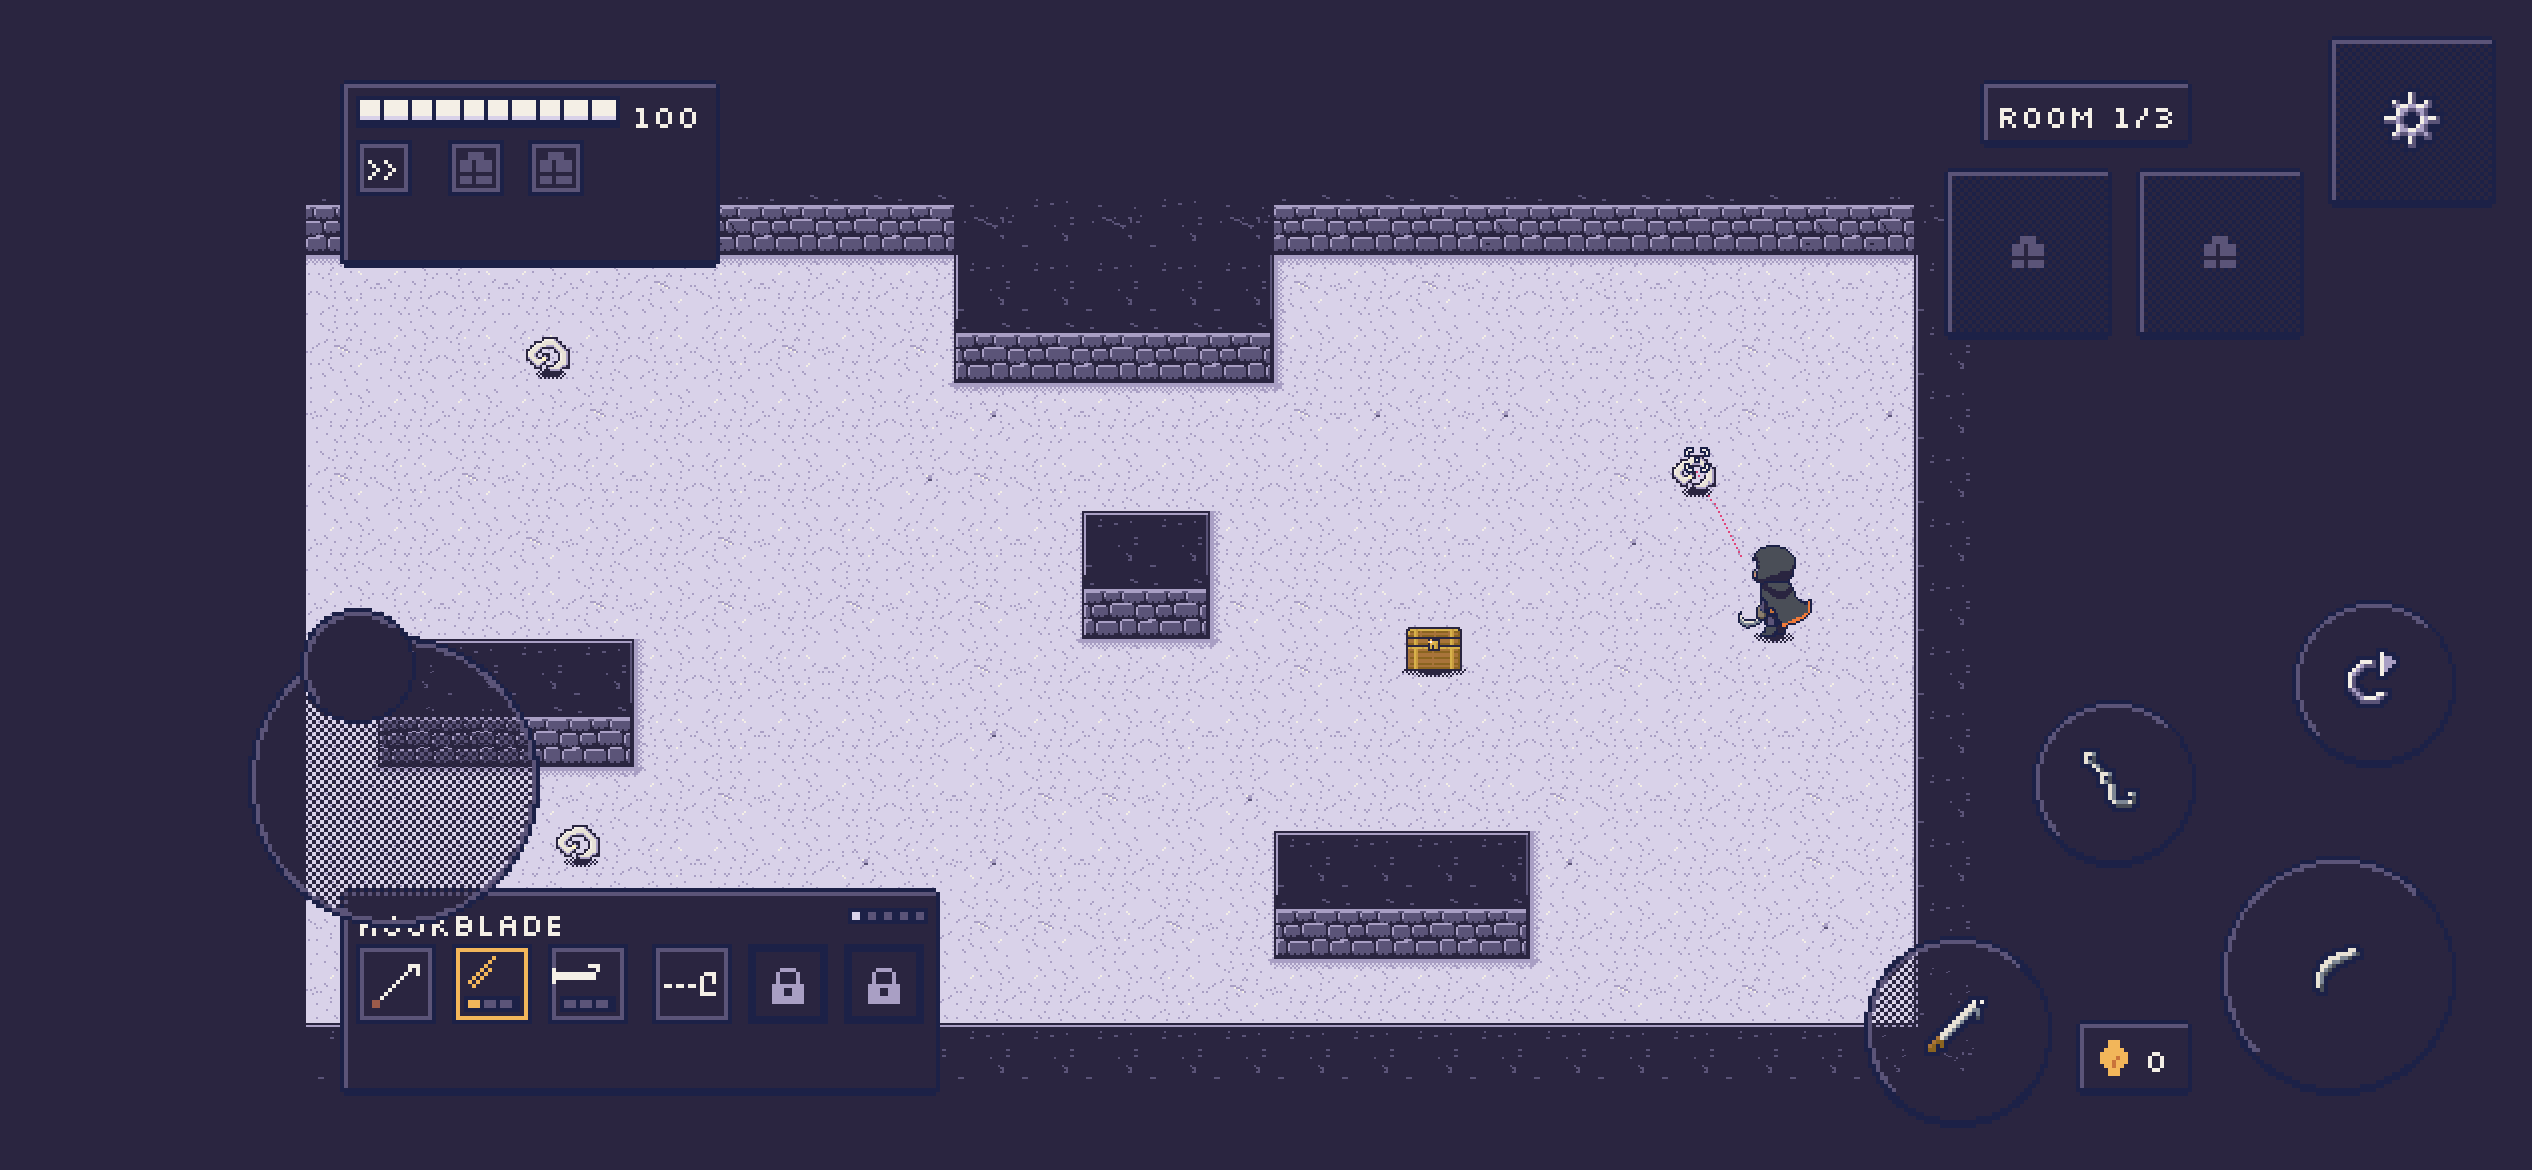
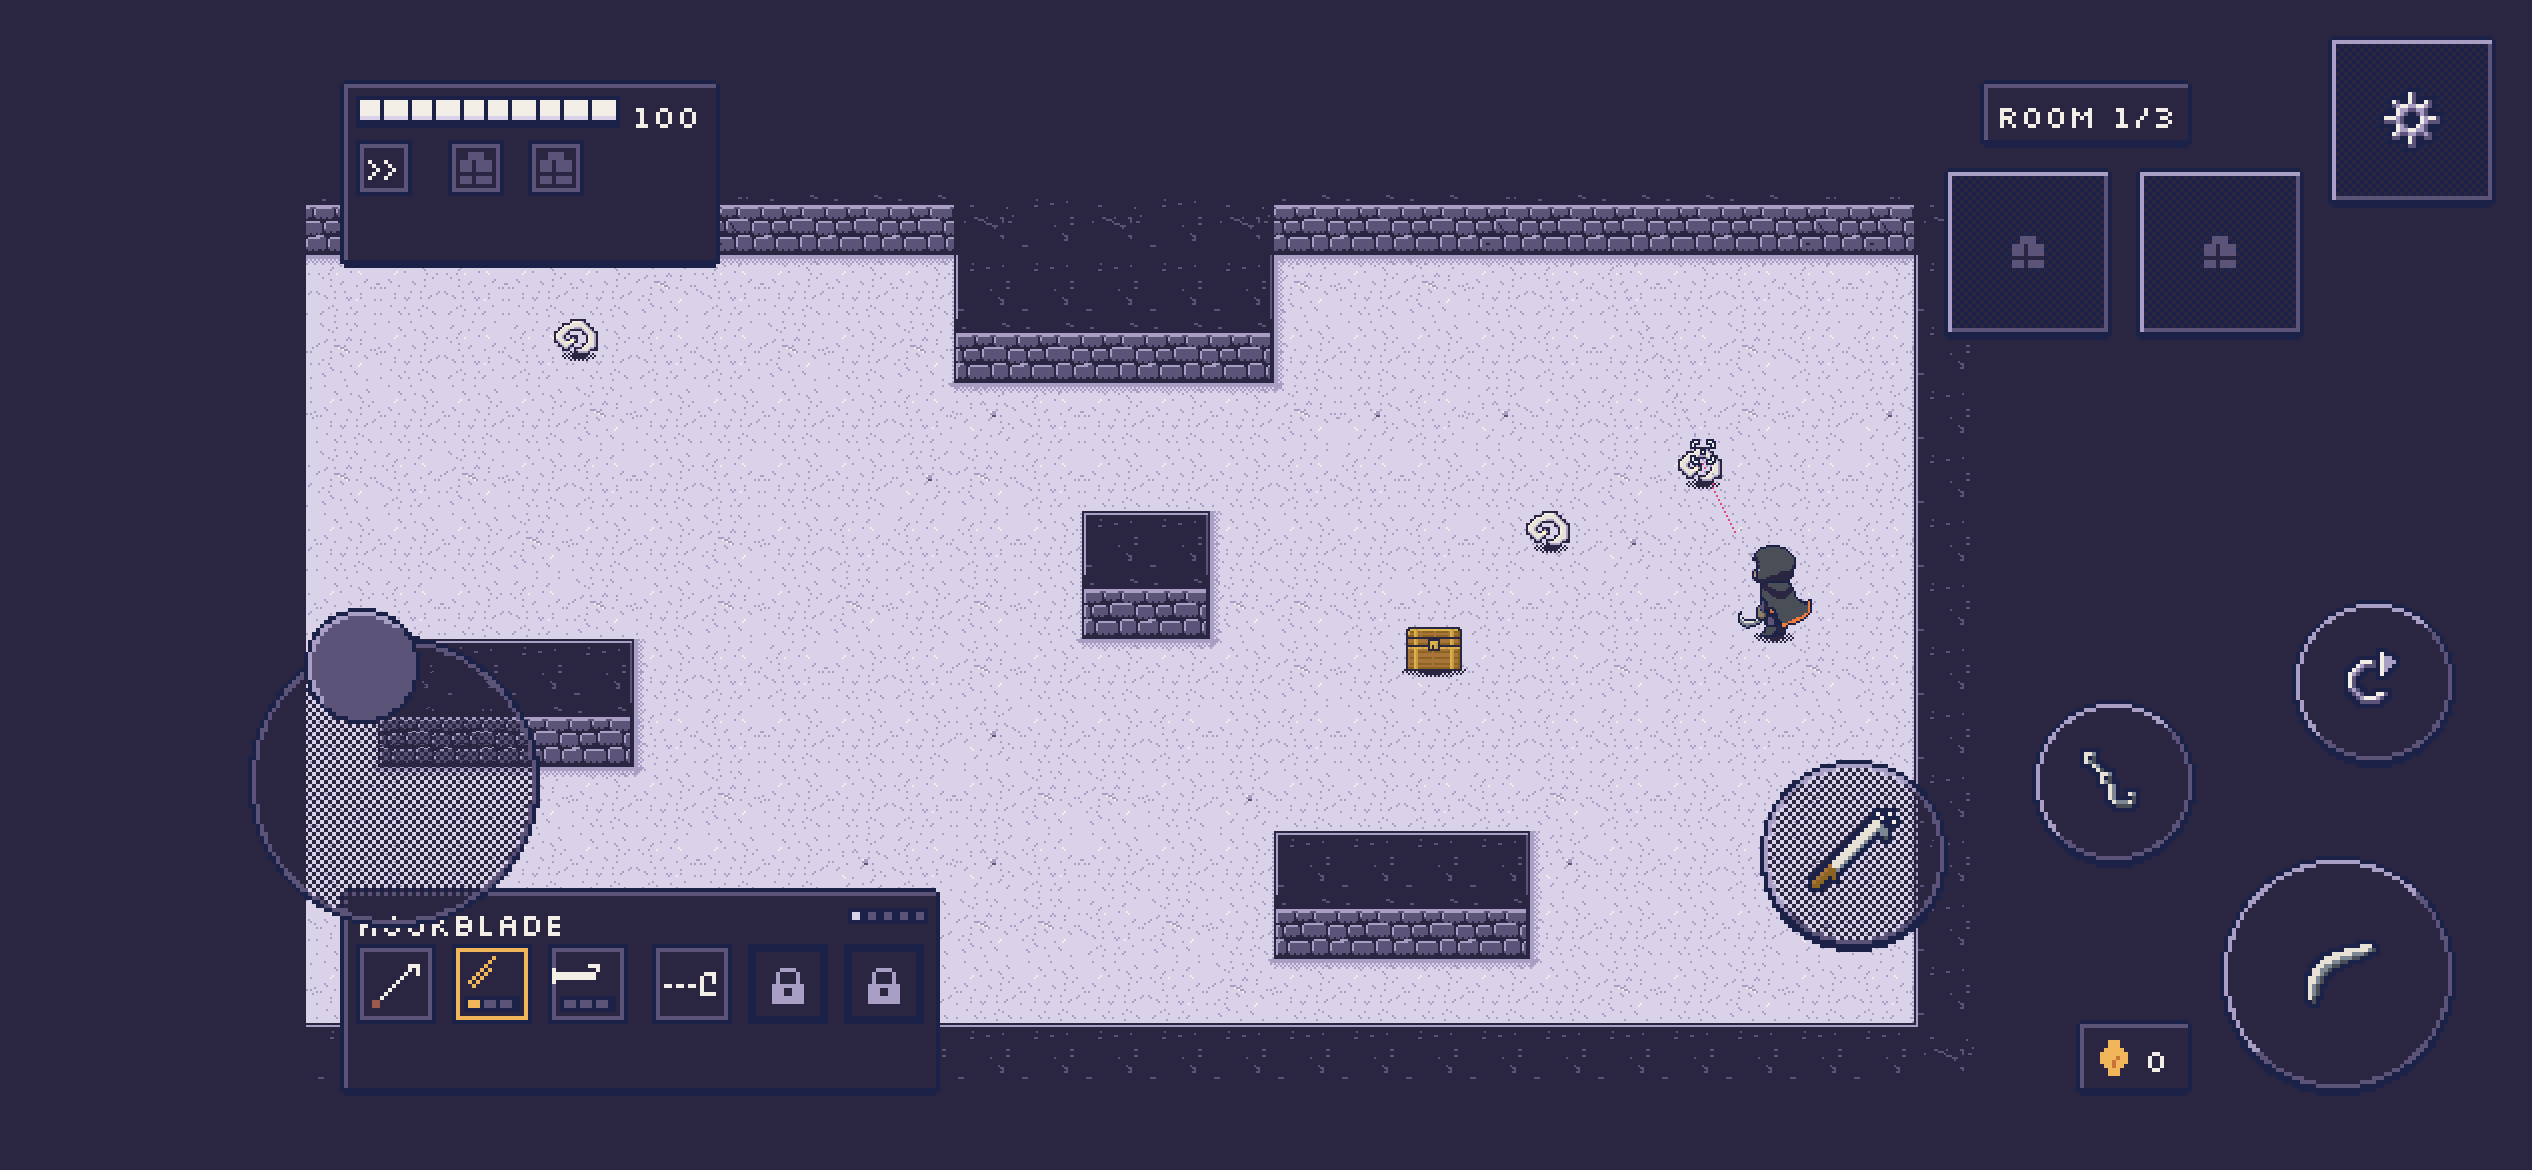
Touch: ART's look fixes on #134 and the 24 px glyphs (#135)
- Every control gets a 1 px bevel ring just inside the outline, all the way
  round: hollow-dusk on the top-left half (uiBevelLight), hollow-below on the
  rest; pressed, the light moves to the bottom right. It reads on the Hollow
  margin, where the face dither and the outline alone vanished.
- The knob reads raised: hollow-below, lit top-left in hollow-dusk.
- LIGHT and HEAVY draw ART's 24 px cells (#135, registered in sheets.ts,
  sheets.test.ts and the loader) on a button at least glyphLargeMinUiPx (48)
  across; smaller buttons keep the 16 px cells.
- While the arc's second slot is hidden, HEAVY takes its place, off the room's
  bottom-right edge.

Screenshots retaken.

Claude-Session: https://claude.ai/code/session_01AQ7MDAxUWeFxm5aoEn2ocb

diff --git a/apps/client/src/ui/touchControls.ts b/apps/client/src/ui/touchControls.ts
@@ -1,13 +1,14 @@
 import type Phaser from 'phaser';
+import { TOUCH_GLYPH_LARGE_CELLS } from '@iot/shared';
 import { deviceStore } from '../game/activeDevice.js';
 import { TouchInput, type TouchRelease } from '../game/touchInput.js';
-import { controlAt, touchLayout, touchScreen, type AbilityControl, type TouchControl, type TouchControlId, type TouchLayout, type TouchMode } from '../game/touchLayout.js';
+import { controlAt, TOUCH, touchLayout, touchScreen, type AbilityControl, type TouchControl, type TouchControlId, type TouchLayout, type TouchMode } from '../game/touchLayout.js';
 import type { Rect } from '../game/view.js';
 import { Palette } from '../palette.js';
 import { DEPTH } from '../render/depth.js';
 import { checker, circlePixels, discPixels, pixelAngle, type Px } from '../render/pixelShapes.js';
 import { plot } from '../render/pixels.js';
-import { ITEM_ICON_TEXTURE, TOUCH_GLYPH_TEXTURE } from '../render/sheets.js';
+import { ITEM_ICON_TEXTURE, TOUCH_GLYPH_LARGE_TEXTURE, TOUCH_GLYPH_TEXTURE } from '../render/sheets.js';
 import { body, label, place, type Text } from '../render/text.js';
 import { ditherRect, icon, panel } from '../render/ui.js';
 
@@ -329,9 +330,12 @@ export class TouchControls {
       cx += off;
       cy += off;
       // The face: every other pixel, on the screen's own grid.
-      const face = checker(discOf(r - 1), (cx + cy) & 1);
+      const face = checker(discOf(r - 2), (cx + cy) & 1);
       plot(g, face, cx, cy, Palette.uiPanel);
-      plot(g, halfOf(ringOf(r - 1), !pressed), cx, cy, Palette.uiBevel);
+      // The bevel all the way round, just inside the outline (ART on #134: it reads on the Hollow margin and the pale
+      // floor alike): its lit half top-left, the rest hollow-below; pressed, the light moves to the bottom right.
+      plot(g, halfOf(ringOf(r - 1), !pressed), cx, cy, Palette.uiBevelLight);
+      plot(g, halfOf(ringOf(r - 1), pressed), cx, cy, Palette.uiBevel);
       plot(g, ring, cx, cy, frame);
       if (cooldown > 0 && !state.locked)
         plot(
@@ -357,14 +361,15 @@ export class TouchControls {
       fill(bx + 1, by + h - 1, w - 2, 1, frame);
       fill(bx, by + 1, 1, h - 2, frame);
       fill(bx + w - 1, by + 1, 1, h - 2, frame);
-      ditherRect(g, bx + 1, by + 1, w - 2, h - 2, Palette.uiPanel);
-      if (pressed) {
-        fill(bx + 1, by + h - 2, w - 2, 1, Palette.uiBevel);
-        fill(bx + w - 2, by + 1, 1, h - 2, Palette.uiBevel);
-      } else {
-        fill(bx + 1, by + 1, w - 2, 1, Palette.uiBevel);
-        fill(bx + 1, by + 1, 1, h - 2, Palette.uiBevel);
-      }
+      ditherRect(g, bx + 2, by + 2, w - 4, h - 4, Palette.uiPanel);
+      // The bevel all the way round, just inside the outline (ART on #134): lit top and left, hollow-below bottom and
+      // right; pressed, the light moves to the bottom and right.
+      const light = pressed ? Palette.uiBevel : Palette.uiBevelLight;
+      const shade = pressed ? Palette.uiBevelLight : Palette.uiBevel;
+      fill(bx + 1, by + h - 2, w - 2, 1, shade);
+      fill(bx + w - 2, by + 1, 1, h - 2, shade);
+      fill(bx + 1, by + 1, w - 2, 1, light);
+      fill(bx + 1, by + 1, 1, h - 2, light);
       cx = bx + Math.floor(w / 2);
       cy = by + Math.floor(h / 2);
     }
@@ -388,7 +393,10 @@ export class TouchControls {
       return;
     }
     const cell = glyphFor(c.id);
-    if (cell) this.glyph(c.id, TOUCH_GLYPH_TEXTURE, cell)?.setPosition(cx - G / 2, cy - G / 2);
+    // LIGHT and HEAVY on a big button draw ART's 24 px cell (#135); everything else the 16 px one.
+    const large = cell !== null && (TOUCH_GLYPH_LARGE_CELLS as readonly string[]).includes(cell) && c.size >= TOUCH.glyphLargeMinUiPx;
+    const gs = large ? 24 : G;
+    if (cell) this.glyph(c.id, large ? TOUCH_GLYPH_LARGE_TEXTURE : TOUCH_GLYPH_TEXTURE, cell)?.setPosition(cx - gs / 2, cy - gs / 2);
     if (cooldown > 0 && (state.seconds ?? 0) > 0) {
       const t = this.text(c.id, String(state.seconds));
       place(t, cx, cy - 3, 0.5);
@@ -409,8 +417,9 @@ export class TouchControls {
     const k = Math.max(6, Math.round(R * 0.4));
     const kx = Math.round(s.knob.x);
     const ky = Math.round(s.knob.y);
-    plot(g, discOf(k - 1), kx, ky, Palette.uiPanel);
-    plot(g, halfOf(ringOf(k - 1), true), kx, ky, Palette.uiBevel);
+    // The knob reads raised, a thumb cap (ART on #134): hollow-below, lighter than the base, lit top-left in hollow-dusk.
+    plot(g, discOf(k - 1), kx, ky, Palette.uiBevel);
+    plot(g, halfOf(ringOf(k - 1), true), kx, ky, Palette.uiBevelLight);
     plot(g, ringOf(k), kx, ky, Palette.uiOutline);
   }
 }

diff --git a/apps/client/src/game/touchLayout.test.ts b/apps/client/src/game/touchLayout.test.ts
@@ -53,9 +53,15 @@ function setup(w: number, h: number, dpr: number) {
   return { screen, avoid };
 }
 
-function layoutFor(mode: TouchMode, w: number, h: number, dpr: number): { layout: TouchLayout; avoid: Rect[] } {
+function layoutFor(
+  mode: TouchMode,
+  w: number,
+  h: number,
+  dpr: number,
+  abilities: readonly (typeof ABILITY_CONTROLS)[number][] = ABILITY_CONTROLS,
+): { layout: TouchLayout; avoid: Rect[] } {
   const { screen, avoid } = setup(w, h, dpr);
-  return { layout: touchLayout(screen, { mode, abilities: ABILITY_CONTROLS, avoid: avoid[mode] }), avoid: avoid[mode] };
+  return { layout: touchLayout(screen, { mode, abilities, avoid: avoid[mode] }), avoid: avoid[mode] };
 }
 
 describe('the touch block of controls.json', () => {
@@ -102,6 +108,23 @@ describe.each(SCREENS)('the touch layout on the %s', (_name, w, h, dpr) => {
       expect(layout.stickRadius).toBe(Math.round(48 / screen.cssPerUi));
     });
   }
+
+  it("run with M2's Haul alone: HEAVY moves up into the arc's freed second slot, still clear of everything (ART on #134)", () => {
+    const { layout, avoid } = layoutFor('run', w, h, dpr, ['ability1']);
+    const full = layoutFor('run', w, h, dpr).layout;
+    const { screen } = layout;
+    expect(layout.controls.map((c) => c.id)).toEqual(['gear', 'item2', 'item1', 'light', 'heavy', 'dodge', 'ability1', 'use']);
+    for (const c of layout.controls) {
+      expect(c.rect.x >= 0 && c.rect.y >= 0 && c.rect.x + c.rect.w <= screen.w && c.rect.y + c.rect.h <= screen.h, c.id).toBe(true);
+      expect(overlaps(c.rect, layout.topCentre), `${c.id} over the top centre`).toBe(false);
+      for (const a of avoid) expect(overlaps(c.rect, a), `${c.id} over a HUD panel`).toBe(false);
+      for (const o of layout.controls) if (o !== c) expect(overlaps(c.rect, o.rect), `${c.id} and ${o.id}`).toBe(false);
+    }
+    const heavy = layout.controls.find((c) => c.id === 'heavy');
+    const before = full.controls.find((c) => c.id === 'heavy');
+    if (!heavy || !before) throw new Error('no heavy');
+    expect(heavy.cy).toBeLessThan(before.cy);
+  });
 
   it('the holding: USE sits over the pack button (or past it, in the margin), clear of the chip', () => {
     const { layout, avoid } = layoutFor('holding', w, h, dpr);

diff --git a/apps/client/src/render/sheets.ts b/apps/client/src/render/sheets.ts
@@ -1,11 +1,12 @@
 import type Phaser from 'phaser';
-import { controllerGlyphsSheet, fieldGroundSheet, hookbladeFxSheet, itemIconsSheet, toastGlyphsSheet, touchGlyphsSheet, type CellSheet } from '@iot/shared';
+import { controllerGlyphsSheet, fieldGroundSheet, hookbladeFxSheet, itemIconsSheet, toastGlyphsSheet, touchGlyphs24Sheet, touchGlyphsSheet, type CellSheet } from '@iot/shared';
 import fieldGroundUrl from '@iot/shared/assets/field-ground-64px.png';
 import glyphsUrl from '@iot/shared/assets/controller-glyphs-12px.png';
 import hookbladeUrl from '@iot/shared/assets/hookblade-fx.png';
 import itemIconsUrl from '@iot/shared/assets/item-icons-16px.png';
 import toastGlyphsUrl from '@iot/shared/assets/toast-glyphs-12px.png';
 import touchGlyphsUrl from '@iot/shared/assets/touch-glyphs-16px.png';
+import touchGlyphs24Url from '@iot/shared/assets/touch-glyphs-24px.png';
 
 /**
  * The engine's cell sheets (packages/shared/assets, white on transparent)
@@ -21,6 +22,8 @@ export const ITEM_ICON_TEXTURE = 'item-icons';
 export const TOAST_GLYPH_TEXTURE = 'toast-glyphs';
 /** ART's touch-control glyphs (#133, M2 Task 10): a frame per touch button (light, heavy, dodge, haul, gear, use), 16 px, in their own colours. */
 export const TOUCH_GLYPH_TEXTURE = 'touch-glyphs';
+/** ART's large touch glyphs (#135): LIGHT and HEAVY at 24 px, for a button at least `touch.glyphLargeMinUiPx` across. */
+export const TOUCH_GLYPH_LARGE_TEXTURE = 'touch-glyphs-24';
 /** ART's field ground (#123): a seamless 64 px frame per state (unsown, sown, faded), tiled inside a named plot, untinted. */
 export const FIELD_GROUND_TEXTURE = 'field-ground';
 
@@ -30,6 +33,7 @@ const SHEETS: [string, string, CellSheet][] = [
   [ITEM_ICON_TEXTURE, itemIconsUrl, itemIconsSheet],
   [TOAST_GLYPH_TEXTURE, toastGlyphsUrl, toastGlyphsSheet],
   [TOUCH_GLYPH_TEXTURE, touchGlyphsUrl, touchGlyphsSheet],
+  [TOUCH_GLYPH_LARGE_TEXTURE, touchGlyphs24Url, touchGlyphs24Sheet],
   [FIELD_GROUND_TEXTURE, fieldGroundUrl, fieldGroundSheet],
 ];
 

diff --git a/packages/shared/test/sheets.test.ts b/packages/shared/test/sheets.test.ts
@@ -10,6 +10,9 @@ import {
   TOUCH_GLYPH_CELLS,
   TOUCH_GLYPH_PX,
   touchGlyphsSheet,
+  touchGlyphs24Sheet,
+  TOUCH_GLYPH_LARGE_CELLS,
+  TOUCH_GLYPH_LARGE_PX,
   ITEMS,
   controllerGlyphsSheet,
   ENGINE_SHEET_DEFAULTS,
@@ -45,6 +48,7 @@ const SHEETS: [string, CellSheet & { meta?: { tinted?: boolean } }, (image: stri
   ['item-icons', itemIconsSheet, (image) => new URL(`../assets/${image}`, import.meta.url)],
   ['toast-glyphs', toastGlyphsSheet, (image) => new URL(`../assets/${image}`, import.meta.url)],
   ['touch-glyphs', touchGlyphsSheet, (image) => new URL(`../assets/${image}`, import.meta.url)],
+  ['touch-glyphs-24', touchGlyphs24Sheet, (image) => new URL(`../assets/${image}`, import.meta.url)],
   ['field-ground', fieldGroundSheet, (image) => new URL(`../assets/${image}`, import.meta.url)],
   ['hookblade-fixture', fixtureSheet, (image) => new URL(`./fixtures/${image}`, import.meta.url)],
 ];
@@ -260,6 +264,12 @@ describe('the touch glyphs (ART, #133; M2 Task 10)', () => {
     expect(touchGlyphsSheet.cells.map((c) => c.name)).toEqual([...TOUCH_GLYPH_CELLS]);
     for (const c of touchGlyphsSheet.cells) expect([c.name, c.w, c.h]).toEqual([c.name, TOUCH_GLYPH_PX, TOUCH_GLYPH_PX]);
     expect(engineSheetMeta(touchGlyphsSheet)).toEqual({ version: '2', pixelScale: 1, tinted: false });
+  });
+
+  it('has LIGHT and HEAVY again at 24 px for the big buttons (ART, #135)', () => {
+    expect(touchGlyphs24Sheet.cells.map((c) => c.name)).toEqual([...TOUCH_GLYPH_LARGE_CELLS]);
+    for (const c of touchGlyphs24Sheet.cells) expect([c.name, c.w, c.h]).toEqual([c.name, TOUCH_GLYPH_LARGE_PX, TOUCH_GLYPH_LARGE_PX]);
+    expect(engineSheetMeta(touchGlyphs24Sheet)).toEqual({ version: '2', pixelScale: 1, tinted: false });
   });
 });
 

diff --git a/packages/shared/src/sheets.ts b/packages/shared/src/sheets.ts
@@ -4,6 +4,7 @@ import hookbladeFx from '../assets/hookblade-fx.json' with { type: 'json' };
 import itemIcons from '../assets/item-icons.json' with { type: 'json' };
 import toastGlyphs from '../assets/toast-glyphs.json' with { type: 'json' };
 import touchGlyphs from '../assets/touch-glyphs.json' with { type: 'json' };
+import touchGlyphs24 from '../assets/touch-glyphs-24.json' with { type: 'json' };
 
 /**
  * Cell sheets: a 1× PNG plus a JSON contract listing named rectangles
@@ -91,6 +92,11 @@ export interface TouchGlyphsSheet extends CellSheet {
 }
 
 export const touchGlyphsSheet: TouchGlyphsSheet = touchGlyphs;
+
+/** The large touch glyphs (ART, #135): LIGHT and HEAVY again at 24 px, for a button at least `touch.glyphLargeMinUiPx` across (the phones); smaller buttons keep the 16 px cells. */
+export const TOUCH_GLYPH_LARGE_CELLS = ['light', 'heavy'] as const;
+export const TOUCH_GLYPH_LARGE_PX = 24;
+export const touchGlyphs24Sheet: TouchGlyphsSheet = touchGlyphs24;
 
 /** The field ground's cells (ART, #123): a named field before SOW, once sown, and faded (sown or not). */
 export const FIELD_GROUND_CELLS = ['unsown', 'sown', 'faded'] as const;

diff --git a/apps/client/src/game/touchLayout.ts b/apps/client/src/game/touchLayout.ts
@@ -98,7 +98,8 @@ function controlsFor(mode: TouchMode, abilities: readonly AbilityControl[], data
     ['item2', b.item2],
     ['item1', b.item1],
     ['light', b.light],
-    ['heavy', b.heavy],
+    // HEAVY moves up into the arc's second slot while that slot is hidden (locked), off the room's bottom-right edge (ART on #134).
+    ['heavy', abilities.includes('ability2') ? b.heavy : { ...b.heavy, dx: b.ability2.dx, dy: b.ability2.dy }],
     ['dodge', b.dodge],
     ...ABILITY_CONTROLS.filter((id) => abilities.includes(id)).map((id): [TouchControlId, TouchButtonSpec] => [id, b[id]]),
     ['use', b.use],

diff --git a/apps/client/src/palette.ts b/apps/client/src/palette.ts
@@ -87,6 +87,8 @@ export const Palette = {
   // UI
   uiPanel: T.hollowDeep,
   uiBevel: T.hollowBelow,
+  /** The touch controls' bevel light (ART on #134): the top-left half of the inner ring, and the knob's lit edge. */
+  uiBevelLight: T.hollowDusk,
   uiOutline: T.dreamNight,
   uiRim: T.sparkAmber,
   uiInk: T.hollowLight,

diff --git a/docs/design/controls.md b/docs/design/controls.md
@@ -202,13 +202,18 @@ M2's arc is the Haul alone and it grows as abilities unlock; GAME DESIGN, 2026-1
 only while a prompt is up), the item slots and the gear; on the holding: USE alone (`useAlone`, over the pack
 button) and the gear. ART's look (2026-10-20): the plain HUD panel as discs (the attacks, DODGE, the abilities,
 USE) and chamfered squares (the gear, the item slots), a 50 % checker dither of ui-panel for every fill (every
-other pixel shows the world), a solid dream-night outline, a hollow-below bevel top and left, a hard 1 px drop
-shadow; ART's touch-glyph sheet (`touch-glyphs-16px.png`, #133) centred on each at 1 UI px per px, the item slots
-the item's icon and count. Pressed: no shadow, the content 1 px down and right, the bevel bottom and right, never a
-colour flash. A cooldown is a solid dream-night sweep over the time left, clockwise from 12 o'clock, with whole
+other pixel shows the world), a solid dream-night outline, a 1 px bevel ring just inside it all the way round (hollow-dusk on the
+top-left half, `uiBevelLight`, hollow-below on the rest; ART on #134: it reads on the Hollow margin and on the pale
+floor alike), a hard 1 px drop shadow; ART's touch-glyph sheet (`touch-glyphs-16px.png`, #133) centred on each at 1
+UI px per px, LIGHT and HEAVY from the 24 px sheet (`touch-glyphs-24px.png`, #135) on a button at least
+`touch.glyphLargeMinUiPx` (48) across, the item slots
+the item's icon and count. Pressed: no shadow, the content 1 px down and right, the bevel's light bottom and right, never
+a colour flash. A cooldown is a solid dream-night sweep over the time left, clockwise from 12 o'clock, with whole
 seconds on top and the frame lit briefly when it is back; a locked slot shows the hollow-dusk lock. The stick
 (only while held): a 2 px ring (dream-night outside, hollow-below inside) the size of its travel with the dither
-inside, and a solid panel knob with the bevel. No alpha anywhere.
+inside, and a raised knob, 40 % of the travel: hollow-below, lighter than the base, lit top-left in
+hollow-dusk, with the dream-night outline (ART on #134). While the arc's second slot is hidden (locked), HEAVY takes
+its place, off the room's bottom-right edge. No alpha anywhere.
 
 **The aim you can see:** in touch mode the pad's reticle shows along the aim (§3), and while a button is dragged a
 short dotted aim line runs from the Kindled along it, `touch.aimLinePx` (56) world px, in the Haul guide's style.
